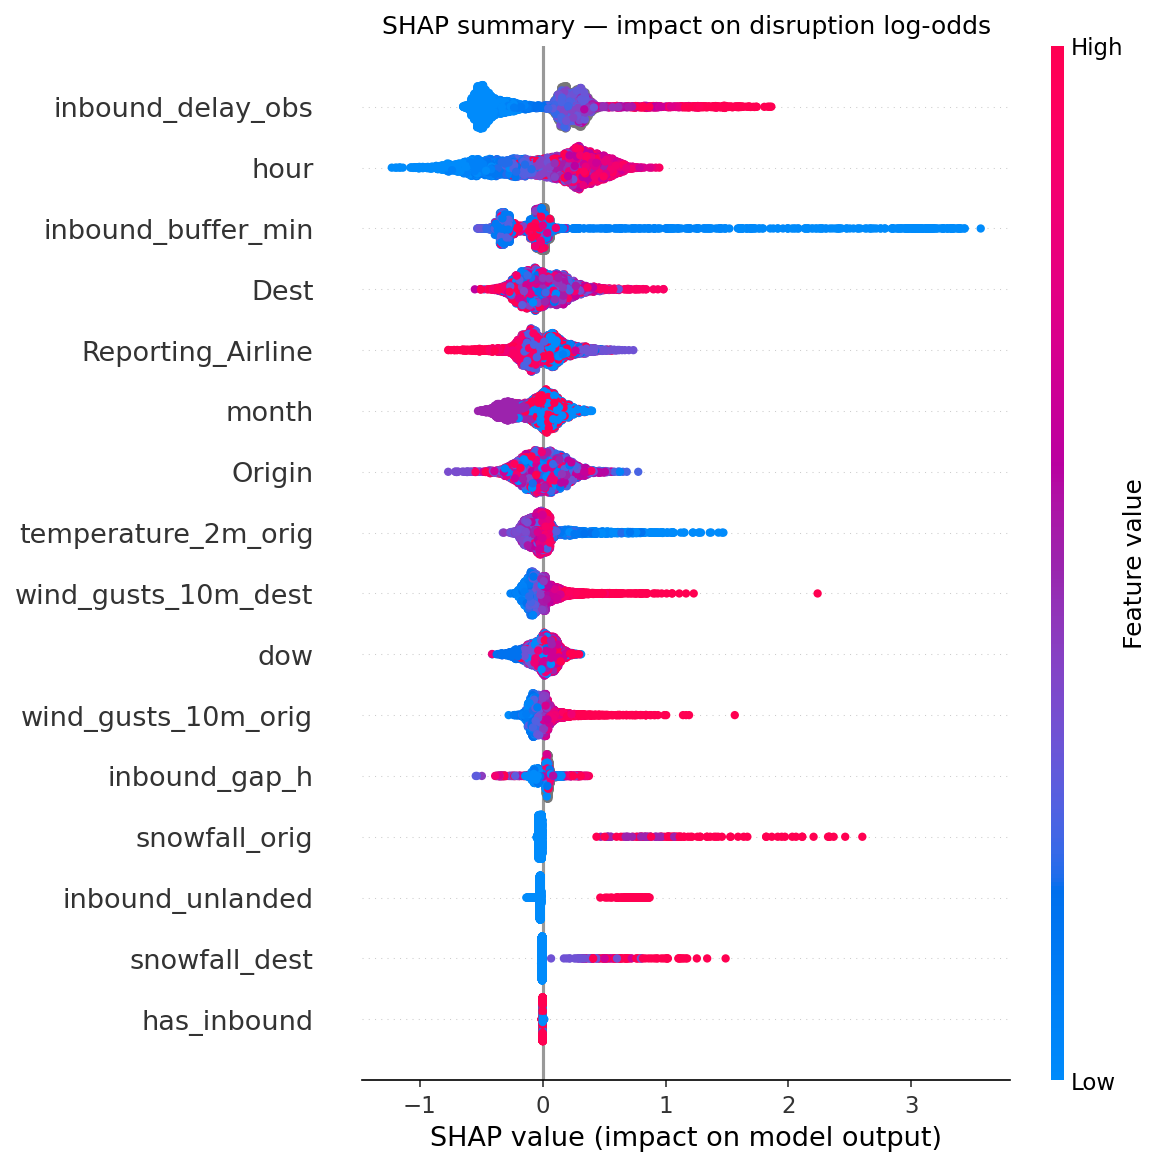
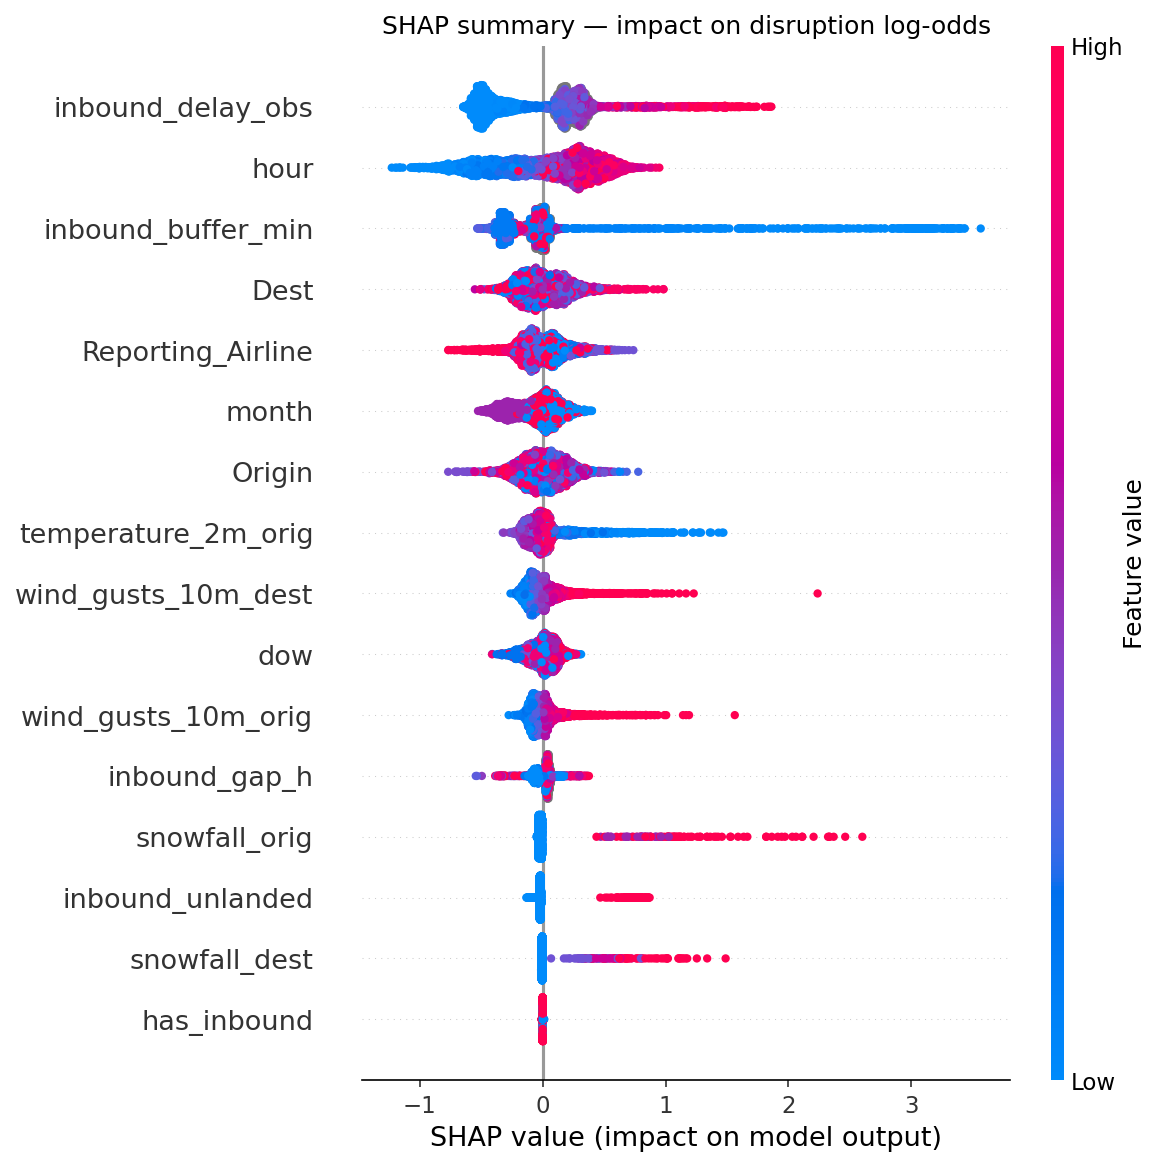
feat(serving): FastAPI service + Streamlit demo
- FastAPI: /health, /options, /flights (discovery), /predict (structured
  object with calibrated prob + signed SHAP drivers), /explain (adds
  narrated text). Predict/explain split so the UI is handled properly
  when the LLM is unavailable
- Serve from a 10 MB prebuilt slice of the test period; features built by
  the training pipeline, so leakage-safety holds by construction
- Streamlit demo: client over the API; risk headline, grounded
  explanation with driver terms highlighted, signed SHAP bar chart

Changed region(s): [[0.4028, 0.0617, 0.5577, 0.6787]]

diff --git a/src/app/streamlit_app.py b/src/app/streamlit_app.py
@@ -1,0 +1,154 @@
+"""Streamlit demo: browse a flight, see its disruption risk, drivers, and a
+grounded natural-language explanation. Thin client over the FastAPI service."""
+import os
+import requests
+import pandas as pd
+import streamlit as st
+import re
+import altair as alt
+
+API = os.environ.get("API_URL", "http://127.0.0.1:8000")
+
+st.set_page_config(page_title="Flight Disruption Forecaster", page_icon="✈", layout="wide")
+st.title("✈ Flight Disruption Forecaster")
+st.caption("Predicts the probability a flight arrives 15+ min late or is cancelled "
+           "and explains why, grounded in the model's own SHAP attributions.")
+
+
+@st.cache_data(ttl=600)
+def get_options():
+    return requests.get(f"{API}/options", timeout=10).json()
+
+
+@st.cache_data(ttl=600)
+def get_flights(origin, dest, date):
+    r = requests.get(f"{API}/flights",
+                     params={"origin": origin, "dest": dest, "date": date, "limit": 50}, timeout=10)
+    return r.json()
+
+
+try:
+    opts = get_options()
+except Exception:
+    st.error(f"Can't reach the API at {API}. Start it with: "
+             "`uvicorn src.api.main:app --port 8000`")
+    st.stop()
+
+c1, c2, c3 = st.columns(3)
+origin = c1.selectbox("Origin", opts["origins"], index=opts["origins"].index("DFW")
+                      if "DFW" in opts["origins"] else 0)
+dest = c2.selectbox("Destination", opts["dests"], index=opts["dests"].index("LGA")
+                    if "LGA" in opts["dests"] else 0)
+date = c3.selectbox("Date", opts["dates"])
+
+res = get_flights(origin, dest, date)
+if not res["flights"]:
+    st.warning("No flights on that route and date — try another combination.")
+    st.stop()
+
+labels = {f"{f['dep_hour']:02d}:00 · {f['carrier']} · flight {f['flight_id']}": f["flight_id"]
+          for f in res["flights"]}
+choice = st.selectbox(f"Flight ({res['count']} found)", list(labels))
+fid = labels[choice]
+
+obj = requests.post(f"{API}/predict", json={"flight_id": fid}, timeout=15).json()
+p, drivers = obj["prediction"], obj["drivers"]
+
+# --- risk headline -----------------------------------------------------------
+COLORS = {"low": "#2e7d32", "elevated": "#ef6c00", "high": "#c62828"}
+
+HL = "#ffd166"   # highlight color for grounded terms
+
+KEY_TERMS = {
+    "inbound_buffer_min":  ["spare turnaround time", "turnaround time", "buffer time", "buffer"],
+    "inbound_delay_obs":   ["behind schedule", "minutes behind", "running late"],
+    "inbound_unlanded":    ["hasn't landed", "has not landed", "still in the air", "not yet landed"],
+    "inbound_gap_h":       ["scheduled turnaround", "turnaround"],
+    "snowfall_orig":       ["snowfall", "snow"],
+    "snowfall_dest":       ["snowfall", "snow"],
+    "wind_gusts_10m_orig": ["wind gusts", "gusts"],
+    "wind_gusts_10m_dest": ["wind gusts", "gusts"],
+    "temperature_2m_orig": ["cold temperatures", "cold conditions", "cold", "hot conditions",
+                            "mild temperatures", "mild"],
+    "hour":                [],   # filled dynamically below
+    "month":               [],   # filled dynamically (month name)
+    "dow":                 [],   # filled dynamically (day name)
+}
+_MONTHS = ["", "January", "February", "March", "April", "May", "June", "July",
+           "August", "September", "October", "November", "December"]
+_DOW = ["Monday", "Tuesday", "Wednesday", "Thursday", "Friday", "Saturday", "Sunday"]
+
+
+def _hour_variants(h):
+    h = int(h)
+    ampm = f"{h-12 if h > 12 else (12 if h == 0 else h)} {'p.m.' if h >= 12 else 'a.m.'}"
+    return [f"{h:02d}:00", f"{h}:00", ampm, ampm.replace(".", "")]
+
+
+def bold_drivers(text, drivers):
+    """Highlight the terms the explanation is grounded in — deterministic, UI-side only."""
+    terms = set()
+    for d in drivers["increasing"] + drivers["decreasing"]:
+        f, v = d["feature"], d["value"]
+        terms.update(KEY_TERMS.get(f, []))
+        if f == "hour":
+            terms.update(_hour_variants(v))
+        elif f == "month":
+            terms.add(_MONTHS[int(v)])
+        elif f == "dow":
+            terms.add(_DOW[int(v)])
+        elif f in ("Origin", "Dest", "Reporting_Airline"):
+            terms.add(str(v))
+    for t in sorted(terms, key=len, reverse=True):     # longest first
+        if not t:
+            continue
+        text = re.sub(rf"(?<![*\w])({re.escape(t)})(?![\w*])",
+                      rf"**:orange[\1]**", text, flags=re.I)
+    return text
+
+
+m1, m2, m3 = st.columns(3)
+m1.metric("Disruption risk", p["probability_text"], p["risk_level"].upper())
+m2.metric("Typical flight", f"{p['base_rate']:.0%}", "base rate")
+m3.metric("Flagged?", "YES" if p["flagged"] else "no", f"threshold {p['threshold']:.0%}")
+st.progress(min(p["probability"], 1.0))
+
+# --- explanation (the slow call) --------------------------------------------
+st.subheader("Why?")
+with st.spinner("Generating explanation…"):
+    try:
+        text = requests.post(f"{API}/explain", json={"flight_id": fid}, timeout=60).json()["explanation"]
+        st.info(bold_drivers(text, drivers))
+    except Exception as e:
+        st.warning(f"Explanation unavailable ({e}). The prediction and drivers below are unaffected.")
+
+# --- the drivers the explanation is grounded in ------------------------------
+st.subheader("Model drivers (SHAP)")
+rows = ([{"factor": d["text"], "impact": d["impact"], "dir": "increases risk"}
+         for d in drivers["increasing"]] +
+        [{"factor": d["text"], "impact": d["impact"], "dir": "reduces risk"}
+         for d in drivers["decreasing"]])
+if rows:
+    df = pd.DataFrame(rows).sort_values("impact")
+    chart = (
+        alt.Chart(df)
+        .mark_bar()
+        .encode(
+            x=alt.X("impact:Q", title="SHAP impact (log-odds)"),
+            y=alt.Y("factor:N", sort="-x", title=None,
+                    axis=alt.Axis(labelLimit=420, labelOverlap=False, labelFontSize=13)),
+            color=alt.Color("dir:N",
+                            scale=alt.Scale(domain=["increases risk", "reduces risk"],
+                                            range=["#c62828", "#2e7d32"]),
+                            legend=alt.Legend(title=None, orient="top")),
+            tooltip=["factor", "dir", "impact"],
+        )
+        .properties(height=46 * max(len(df), 1))       # generous room per bar
+    )
+    st.altair_chart(chart, use_container_width=True)
+    st.dataframe(df[["factor", "dir", "impact"]], hide_index=True, use_container_width=True)
+else:
+    st.write("No drivers passed the significance floor for this flight.")
+
+st.caption("Impact = SHAP contribution in log-odds. Positive pushes risk up, negative pulls it down. "
+           "The explanation above is generated *only* from these drivers.")

diff --git a/src/api/main.py b/src/api/main.py
@@ -1,0 +1,103 @@
+"""FastAPI serving layer: flight disruption risk + grounded explanation.
+
+Serves historical flights from a prebuilt slice (features already constructed by
+the training pipeline, so leakage-safety is preserved by construction). A live
+deployment would swap the slice for a real-time feature pipeline.
+"""
+import json
+from contextlib import asynccontextmanager
+
+import lightgbm as lgb
+import joblib
+import pandas as pd
+from fastapi import FastAPI, HTTPException
+from fastapi.responses import RedirectResponse
+from pydantic import BaseModel
+
+from src.paths import PROJECT_ROOT
+from src.llm.explain import FlightExplainer
+from src.llm.narrate import narrate
+
+STATE = {}
+
+
+
+@asynccontextmanager
+async def lifespan(app: FastAPI):
+    # Load once at startup, not per request.
+    models, serving = PROJECT_ROOT / "models", PROJECT_ROOT / "serving_data"
+    config = json.loads((models / "config.json").read_text())
+    booster = lgb.Booster(model_file=str(models / "gbm.txt"))
+    STATE["flights"] = pd.read_parquet(serving / "flights.parquet").set_index("flight_id")
+    STATE["explainer"] = FlightExplainer(
+        model=booster, calibrator=joblib.load(models / "calibrator_isotonic.joblib"),
+        features=config["features"], base_rate=config["base_rate"],
+        cat_categories=config["cat_categories"], threshold=config["threshold"])
+    print(f"loaded {len(STATE['flights']):,} flights")
+    yield
+    STATE.clear()
+
+
+app = FastAPI(title="Flight Disruption Forecaster", version="1.0", lifespan=lifespan)
+
+
+class FlightRequest(BaseModel):
+    flight_id: int
+
+@app.get("/", include_in_schema=False)
+def root():
+    return RedirectResponse("/docs")
+
+@app.get("/health")
+def health():
+    return {"status": "ok", "flights_loaded": len(STATE["flights"])}
+
+
+@app.get("/flights")
+def list_flights(origin: str | None = None, dest: str | None = None,
+                 date: str | None = None, limit: int = 50):
+    """Browse servable flights. Powers the UI's dropdowns."""
+    df = STATE["flights"]
+    if origin: df = df[df["Origin"] == origin]
+    if dest:   df = df[df["Dest"] == dest]
+    if date:   df = df[df["FlightDate"].astype(str) == date]
+    out = df.head(limit)
+    return {
+        "count": int(len(df)),
+        "flights": [{"flight_id": int(i), "origin": str(r.Origin), "dest": str(r.Dest),
+                     "carrier": str(r.Reporting_Airline), "date": str(r.FlightDate)[:10],
+                     "dep_hour": int(r.hour)} for i, r in out.iterrows()],
+    }
+
+
+@app.get("/options")
+def options():
+    """Distinct origins/dests/dates for populating UI selectors."""
+    df = STATE["flights"]
+    return {"origins": sorted(df["Origin"].astype(str).unique().tolist()),
+            "dests":   sorted(df["Dest"].astype(str).unique().tolist()),
+            "dates":   sorted(df["FlightDate"].astype(str).str[:10].unique().tolist())}
+
+
+def _row(flight_id: int):
+    try:
+        return STATE["flights"].loc[flight_id]
+    except KeyError:
+        raise HTTPException(404, f"flight_id {flight_id} not found")
+
+
+@app.post("/predict")
+def predict(req: FlightRequest):
+    """Structured prediction + SHAP drivers. Fast, no LLM call."""
+    return STATE["explainer"].explain(_row(req.flight_id))
+
+
+@app.post("/explain")
+def explain(req: FlightRequest):
+    """Prediction + natural-language explanation (calls the Anthropic API)."""
+    obj = STATE["explainer"].explain(_row(req.flight_id))
+    try:
+        text = narrate(obj)
+    except Exception as e:
+        raise HTTPException(502, f"explanation service unavailable: {e}")
+    return {**obj, "explanation": text}

diff --git a/notebooks/04_gbm.py b/notebooks/04_gbm.py
@@ -302,7 +302,7 @@ from src.llm.explain import FlightExplainer
 explainer = FlightExplainer(
     model=gbm, calibrator=iso, features=FEATURES,
     base_rate=float(m[TARGET_COL].mean()),
-    cat_dtypes={c: m[c].dtype for c in CAT},
+    cat_categories={c: list(m[c].cat.categories) for c in CAT},
 )
 for tag, i in [("HIGH", i_hi), ("LOW", i_lo)]:
     print(f"\n===== {tag}-RISK FLIGHT =====")
@@ -319,7 +319,7 @@ from src.llm.explain import FlightExplainer
 from src.llm.narrate import narrate
 explainer = FlightExplainer(model=gbm, calibrator=iso, features=FEATURES,
                             base_rate=float(m[TARGET_COL].mean()),
-                            cat_dtypes={c: m[c].dtype for c in CAT})
+                            cat_categories={c: list(m[c].cat.categories) for c in CAT})
 
 client = Anthropic()
 for tag, i in [("HIGH", i_hi), ("LOW", i_lo)]:
@@ -374,3 +374,15 @@ eval_set.to_parquet(EVAL_DIR / "eval_set.parquet")
 print(f"frozen eval set: {len(eval_set)} flights -> {EVAL_DIR / 'eval_set.parquet'}")
 print(eval_set.groupby(["_risk_tier", "has_inbound"]).size())
 # %%
+# %% --- Carve the slim serving slice (test period, features prebuilt) ------
+SERVE_DIR = PROJECT_ROOT / "serving_data"
+SERVE_DIR.mkdir(exist_ok=True)
+
+keep = FEATURES + ["FlightDate", "Tail_Number", TARGET_COL]
+slim = m[m["split"] == "test"][keep].copy()
+slim["flight_id"] = slim.index
+slim.to_parquet(SERVE_DIR / "flights.parquet", index=False)
+
+mb = (SERVE_DIR / "flights.parquet").stat().st_size / 1e6
+print(f"serving slice: {len(slim):,} flights, {mb:.1f} MB -> {SERVE_DIR / 'flights.parquet'}")
+print("date range:", slim['FlightDate'].min(), "->", slim['FlightDate'].max())
